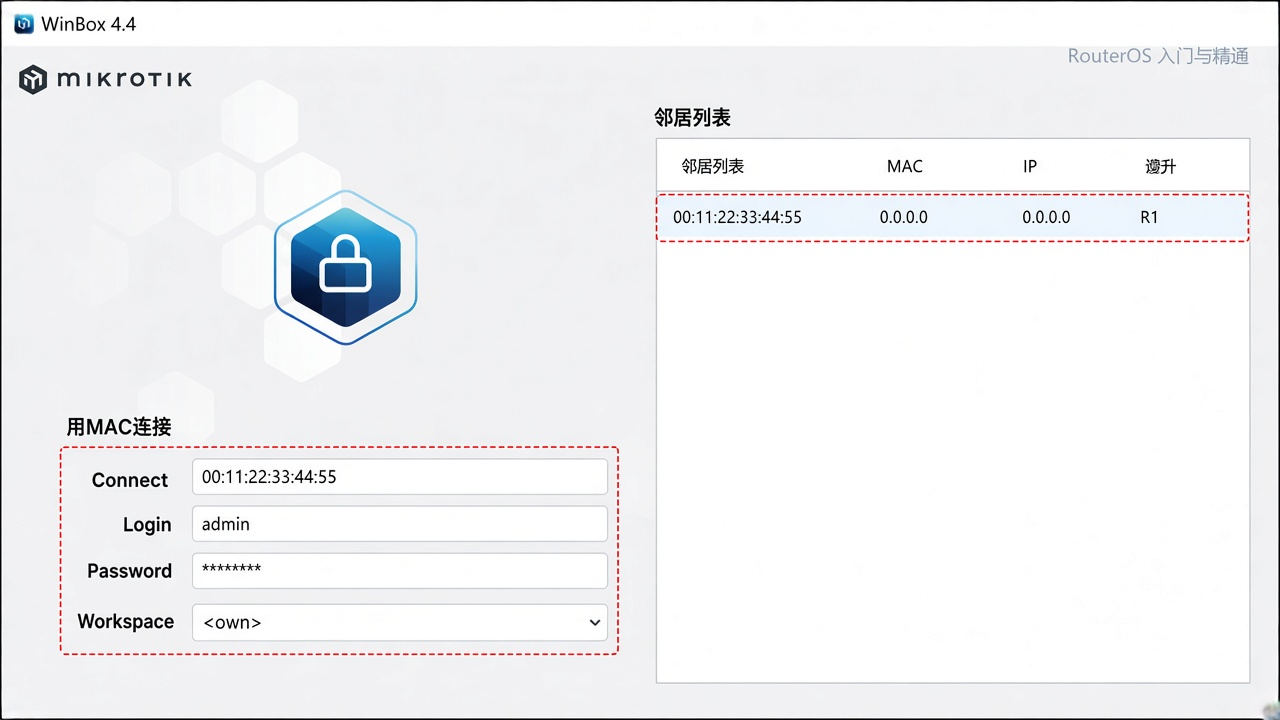
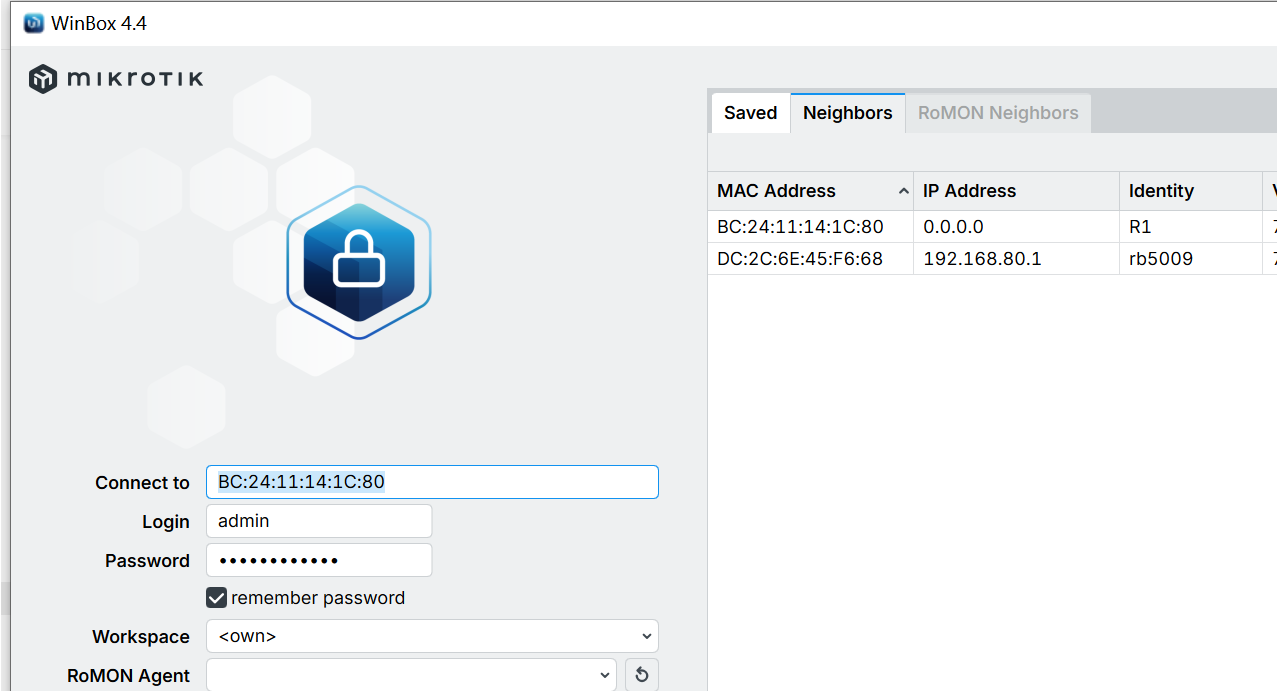
auto-sync: 2026-10-04 22:24

diff --git a/CHANGELOG.md b/CHANGELOG.md
@@ -3,7 +3,8 @@
 ## Unreleased
 
 - 课文按「一个场景一份完整教程」收目录：拆开的半成品课从课表拿掉；IKEv2/WireGuard 补上客户端与测试；PPPoE/DHCP/固定 IP 含 masquerade；家里防火墙、家里 VLAN、第一次连上含改名改密。
-- 截图规则：红框必须套住本步真实控件；禁止在登录窗标 Firewall/Connections；禁止白色方框盖住 Connect/Login/Password。
+- 技能：全部操作图必须是 x86 901 真机 WinBox；严禁连接 :5009 的 ROS。
+- 已用 WinBox 4.4 连上 901（R1），替换「第一次连上」登录图与连上后图。
 
 - 补齐空章实战课：无线（家里 Wi-Fi / 访客 / CAPsMAN）、QoS（Simple Queue / Queue Tree）、FastTrack 与 CPU、定时备份与 Netwatch、OSPF / BGP、LDP、RoMON / VRF。
 
